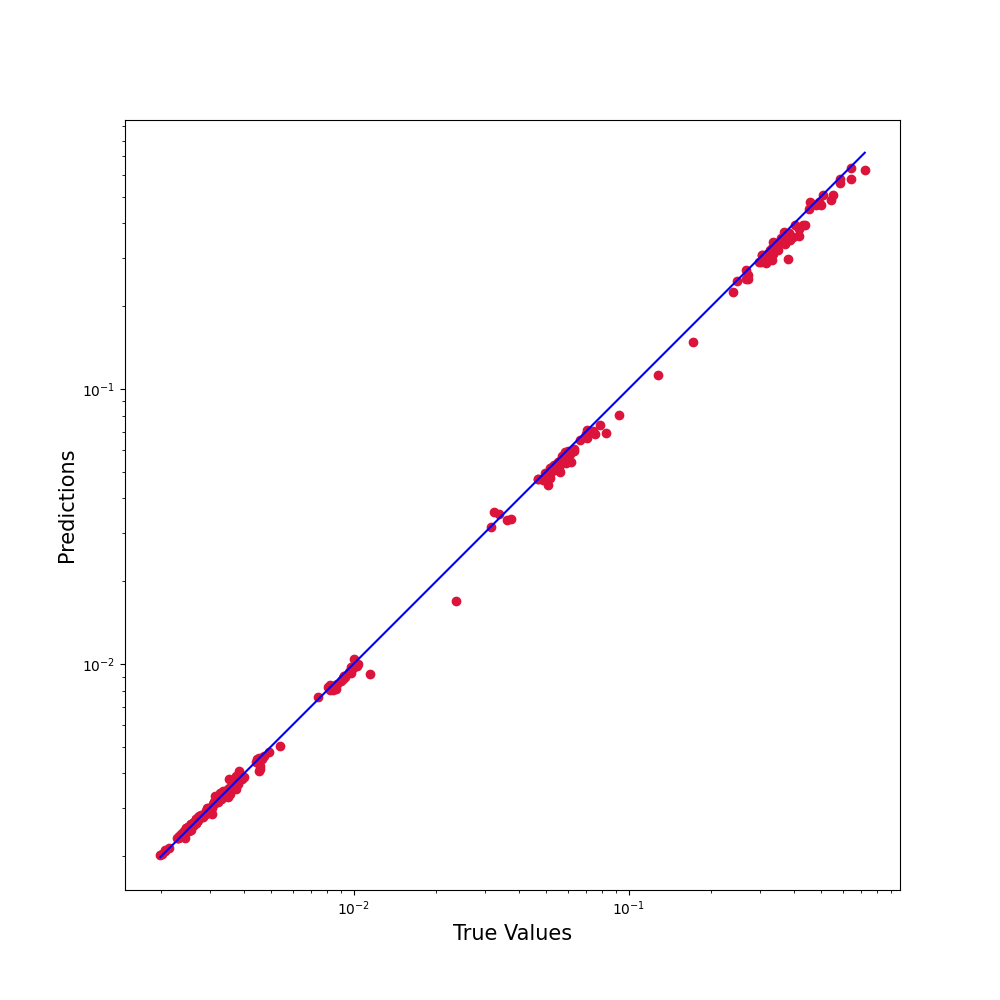
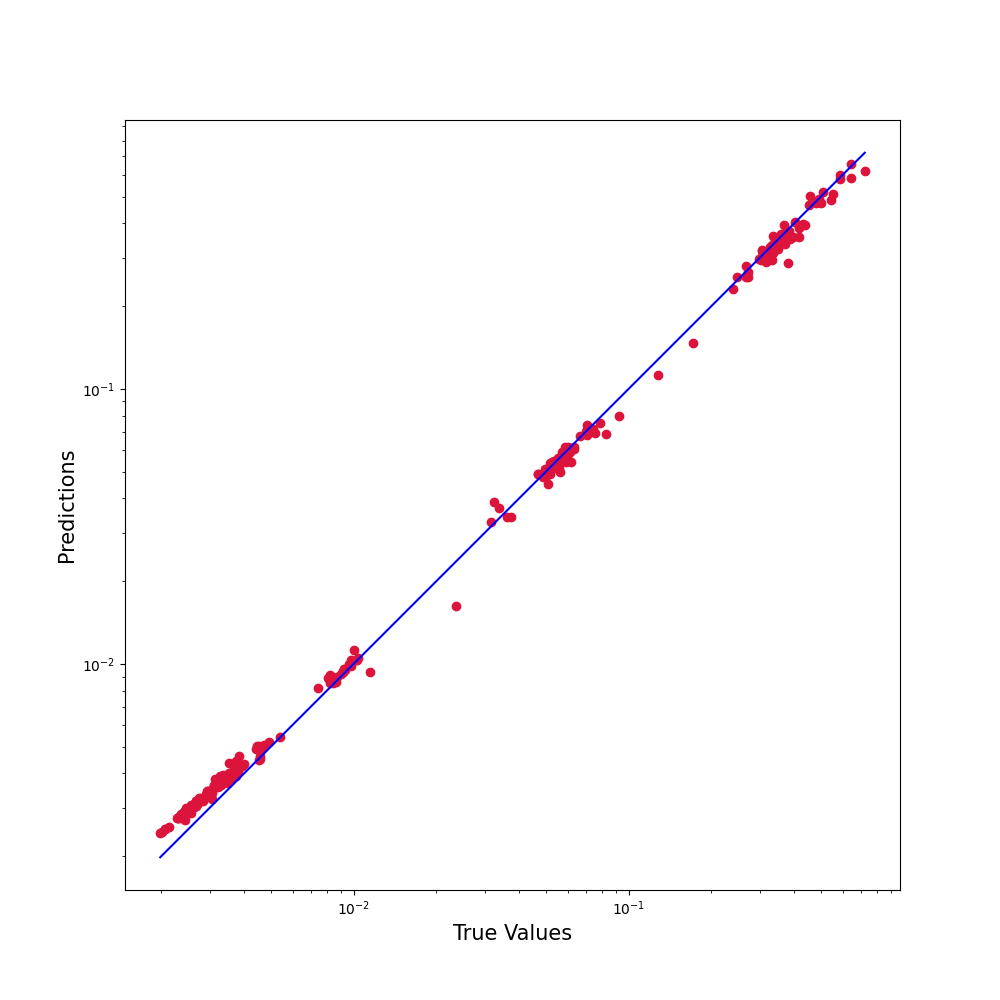
Working model!

diff --git a/KerasTest.py b/KerasTest.py
@@ -1,6 +1,8 @@
 from __future__ import absolute_import, division, print_function, unicode_literals
 import os
+import time
 
+import requests
 import numpy
 import numpy as np
 import pandas as pd
@@ -11,6 +13,7 @@ import tensorflow as tf
 os.environ['CUDA_VISIBLE_DEVICES'] = '-1'
 
 overall_data = np.asarray(pd.read_csv('Resources/DogeCoinInitialSet.csv')).astype(np.float32)
+# train_data = overall_data
 train_data = overall_data[:round(len(overall_data) / 2)]
 eval_data = overall_data[round(len(overall_data) / 2):len(overall_data)]
 
@@ -20,8 +23,6 @@ train_labels = train_features[:, 0]
 eval_features = eval_data.copy()
 eval_labels = eval_features[:, 0]
 
-print((train_features == eval_features))
-
 model = tf.keras.Sequential([
     tf.keras.layers.Dense(64),
     tf.keras.layers.Dense(1),
@@ -29,30 +30,98 @@ model = tf.keras.Sequential([
 
 lr_schedule = tf.keras.optimizers.schedules.InverseTimeDecay(
     0.001,
-    decay_steps=600 * 1000,
+    decay_steps=len(train_data) * 1000,
     decay_rate=1,
     staircase=False)
 
 model.compile(
-    optimizer=tf.keras.optimizers.Adam(0.001),
+    optimizer=tf.keras.optimizers.Adam(lr_schedule),
     loss=tf.keras.losses.MeanSquaredError()
 )
 
-history = model.fit(train_features, train_labels, batch_size=1, epochs=10, verbose=2,
-                    validation_data=(eval_features, eval_labels))
+history = model.fit(train_features, train_labels, batch_size=1, epochs=10)
 
-predictions = model.predict(eval_features)
-print(predictions[-10:])
 
-plt.figure(figsize=(10,10))
-plt.scatter(eval_labels, predictions, c='crimson')
-plt.yscale('log')
-plt.xscale('log')
+def plot_predictions():
+    predictions = model.predict(eval_features)
+    print(predictions[-10:])
 
-p1 = max(max(predictions), max(eval_labels))
-p2 = min(min(predictions), min(eval_labels))
-plt.plot([p1, p2], [p1, p2], 'b-')
-plt.xlabel('True Values', fontsize=15)
-plt.ylabel('Predictions', fontsize=15)
-plt.axis('equal')
-plt.savefig('Resources/fig.png')
+    plt.figure(figsize=(10, 10))
+    plt.scatter(eval_labels, predictions, c='crimson')
+    plt.yscale('log')
+    plt.xscale('log')
+
+    p1 = max(max(predictions), max(eval_labels))
+    p2 = min(min(predictions), min(eval_labels))
+    plt.plot([p1, p2], [p1, p2], 'b-')
+    plt.xlabel('True Values', fontsize=15)
+    plt.ylabel('Predictions', fontsize=15)
+    plt.axis('equal')
+    plt.savefig('Resources/fig.png')
+
+
+def determine_price_data(new_price_input, open_price_input, high_price_input, low_price_input):
+    temp_open_price, temp_high_price, temp_low_price = 0, 0, 0
+
+    if open_price_input == 0:
+        temp_open_price = new_price_input
+
+    if new_price_input > high_price_input:
+        temp_high_price = new_price_input
+
+    if new_price_input < low_price_input or low_price_input == 0:
+        temp_low_price = new_price_input
+
+    return new_price_input, temp_open_price, temp_high_price, temp_low_price
+
+
+def predict_and_check(previous_prices_list, actual_price_str, actual_price_float):
+    prediction = model.predict(previous_prices_list)[-1:][0][0]
+    difference = actual_price_float - prediction
+    percent_error = (difference / actual_price_float) * 100
+    accuracy = 100 - percent_error
+    print('Newest prediction was: ' + str(prediction))
+    print('Actual price was: ' + actual_price_str)
+    print('Difference was: ' + str(difference))
+    print('Accuracy was: ' + str(accuracy))
+    print('+------------------------------------+')
+
+
+def get_new_price():
+    response = requests.get('https://chain.so/api/v2/get_price/DOGE/USD').json()
+    new_price_str = response['data']['prices'][0]['price']
+    new_price_float = float(new_price_str)
+    return new_price_str, new_price_float
+
+
+def collect_live_data():
+    previous_prices = []
+    open_price = 0
+    high_price = 0
+    low_price = 0
+    detected_change = True
+    while True:
+        new_price_str, new_price_float = get_new_price()
+        new_price_float, open_price, high_price, low_price = determine_price_data(new_price_float, open_price,
+                                                                                  high_price, low_price)
+        if len(previous_prices) == 0:
+            previous_prices = [[new_price_float, open_price, high_price, low_price]]
+            predict_and_check(previous_prices, new_price_str, new_price_float)
+            detected_change = False
+        elif new_price_float != (previous_prices[-1:][0][0]):
+            detected_change = True
+
+        if detected_change:
+            previous_prices = np.vstack(
+                [previous_prices, [new_price_float, open_price, high_price, low_price]])
+            predict_and_check(previous_prices, new_price_str, new_price_float)
+            detected_change = False
+        else:
+            detected_change = False
+
+        time.sleep(10)
+
+
+plot_predictions()
+
+collect_live_data()
